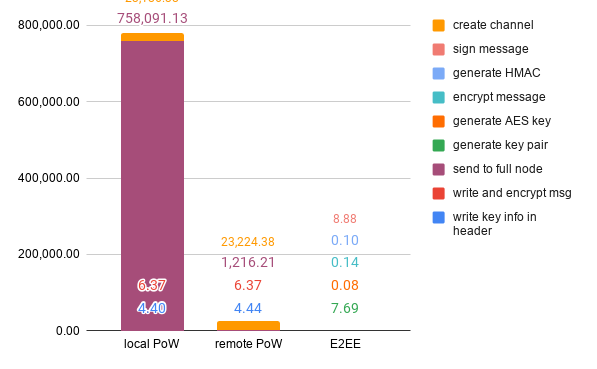
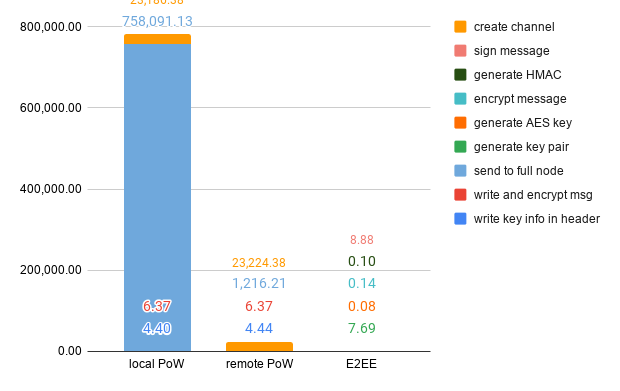
Fix comparison figure and add figure for operation percentage

diff --git a/paper.tex b/paper.tex
@@ -295,12 +295,12 @@ Fig.~\ref{fig:mam_create} shows the results of channel/endpoint creation. The ti
   \caption{Time cost of MAM creation.}\label{fig:mam_create}
 \endminipage\hfill
 \minipage{0.32\textwidth}
-  \includegraphics[width=\linewidth]{mam_send}
-  \caption{The probability distributed function of time cost for sending a message through MAM.}\label{fig:mam_send}
+  \includegraphics[width=\linewidth]{rpi3_pow}
+  \caption{MAM with local PoW \newline vs. MAM with remote PoW \newline vs. Delegated MAM with E2EE}\label{fig:rpi3_pow}  
 \endminipage\hfill
 \minipage{0.32\textwidth}%
-  \includegraphics[width=\linewidth]{rpi3_pow}
-  \caption{Local PoW vs. Remote PoW vs. E2EE}\label{fig:rpi3_pow}
+  \includegraphics[width=\linewidth]{op_share}
+  \caption{The percentage each operation takes in total elapsed time.}\label{fig:op_share}  
 \endminipage
 \end{figure*}
 
@@ -321,7 +321,7 @@ Transferring MAM operations to brokers while ensuring the profit and privacy of 
 \label{section:smart_contract_evaluation}
 
 \subsubsection{Experiment}
-PoW, sending to IOTA full node and creating channel these three steps take most of the time to broadcast a MAM message. Applying remote PoW greatly reduces the elapsed time. To improve MAM into a reliable solution for low-level devices, channel creation is the next primary barrier should be removed. With employing delegated MAM and E2EE, MAM channel creation would be delegated to Accel which dramatically enhances the efficiency and makes MAM available for low-level devices. What follows is the performance comparison between MAM and delegated MAM for different payload sizes. Elapsed time for internet communication and PoW are not included, because the processes after sending messages to Accel are the common steps. Excluding the common steps allows us to compare the performance between MAM and delegated MAM more clearly. In addition, MAM channel creation and E2EE asymmetric key pair generation are not included, too, because the two operations would seldom be executed. In the E2EE protocol, we choose SHA-256 for HMAC, AES-CBC for symmetric encryption and Curve P-256 for ECDSA, respectively.
+According to Fig.\ref{fig:op_share}, PoW, sending to IOTA full node and creating channel these three steps take most of the time to broadcast a MAM message. The result directs a way to improve MAM. Applying remote PoW greatly reduces the elapsed time, then channel creation is the next primary barrier should be removed. With employing delegated MAM and E2EE, MAM channel creation would be delegated to Accel which dramatically enhances the efficiency and makes MAM available for low-level devices. What follows is the performance comparison between MAM and delegated MAM for different payload sizes. Elapsed time for internet communication and PoW are not included, because the processes after sending messages to Accel are the common steps. Excluding the common steps allows us to compare the performance between MAM and delegated MAM more clearly. In addition, MAM channel creation and E2EE asymmetric key pair generation are not included, too, because the two operations would seldom be executed. In the E2EE protocol, we choose SHA-256 for HMAC, AES-CBC for symmetric encryption and Curve P-256 for ECDSA, respectively.
 
 The steps counted in MAM benchmark including:
 \begin{enumerate}
